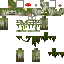
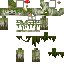
LOADS of model tweaks!! next up: sheep and cows, and then variants!!!

Changed region(s): [[0.375, 0.0, 0.5, 0.125], [0.875, 0.0, 0.9688, 0.125], [0.5312, 0.0625, 0.5938, 0.125]]

diff --git a/src/client/java/gay/beegirl/Mixin/EntityModelMixins.java b/src/client/java/gay/beegirl/Mixin/EntityModelMixins.java
@@ -1,0 +1,159 @@
+package gay.beegirl.Mixin;
+
+import net.minecraft.client.model.*;
+import net.minecraft.client.render.entity.model.*;
+import net.minecraft.entity.Entity;
+import org.spongepowered.asm.mixin.Final;
+import org.spongepowered.asm.mixin.Mixin;
+import org.spongepowered.asm.mixin.Shadow;
+import org.spongepowered.asm.mixin.Unique;
+import org.spongepowered.asm.mixin.injection.At;
+import org.spongepowered.asm.mixin.injection.Inject;
+import org.spongepowered.asm.mixin.injection.callback.CallbackInfo;
+import org.spongepowered.asm.mixin.injection.callback.CallbackInfoReturnable;
+import org.spongepowered.asm.mixin.injection.callback.LocalCapture;
+
+@Mixin(AbstractZombieModel.class)
+abstract class AbstractZombieModelMixin extends BipedEntityModelMixin {
+    @Inject(
+            method = "setAngles(Lnet/minecraft/entity/Entity;FFFFF)V",
+            at = @At("TAIL")
+    )
+    public void setAngles(Entity entity, float f, float g, float h, float i, float j, CallbackInfo ci){
+        this.jacket.copyTransform(this.body);
+        this.rightSleeve.copyTransform(this.rightArm);
+        this.leftSleeve.copyTransform(this.leftArm);
+        this.rightPants.copyTransform(this.rightLeg);
+        this.leftPants.copyTransform(this.leftLeg);
+    }
+}
+@Mixin(BoggedEntityModel.class)
+class BoggedEntityModelMixin {
+    @Inject(
+            method = "getTexturedModelData",
+            at = @At("RETURN"),
+            locals = LocalCapture.CAPTURE_FAILHARD,
+            cancellable = true
+    )
+    private static void getTexturedModelData(CallbackInfoReturnable<TexturedModelData> cir, ModelData modelData, ModelPartData modelPartData){
+        ModelPartData modelPartData2 = modelPartData.getChild("head").addChild("mushrooms", ModelPartBuilder.create(), ModelTransform.NONE);
+        modelPartData2.addChild("red_mushroom_1", ModelPartBuilder.create().uv(24, 0).cuboid(-3.0F, -3.0F, 0.0F, 6.0F, 4.0F, 0.0F), ModelTransform.of(3.0F, -8.0F, 3.0F, 0.0F, 0.7853982F, 0.0F));
+        modelPartData2.addChild("red_mushroom_2", ModelPartBuilder.create().uv(24, 0).cuboid(-3.0F, -3.0F, 0.0F, 6.0F, 4.0F, 0.0F), ModelTransform.of(3.0F, -8.0F, 3.0F, 0.0F, 2.3561945F, 0.0F));
+        modelPartData2.addChild("brown_mushroom_1", ModelPartBuilder.create().uv(24, 4).cuboid(-3.0F, -3.0F, 0.0F, 6.0F, 4.0F, 0.0F), ModelTransform.of(-3.0F, -8.0F, -3.0F, 0.0F, 0.7853982F, 0.0F));
+        modelPartData2.addChild("brown_mushroom_2", ModelPartBuilder.create().uv(24, 4).cuboid(-3.0F, -3.0F, 0.0F, 6.0F, 4.0F, 0.0F), ModelTransform.of(-3.0F, -8.0F, -3.0F, 0.0F, 2.3561945F, 0.0F));
+        modelPartData2.addChild("brown_mushroom_3", ModelPartBuilder.create().uv(56, 0).cuboid(-3.0F, -4.0F, 0.0F, 6.0F, 4.0F, 0.0F), ModelTransform.of(-2.0F, -1.0F, 4.0F, -1.5707964F, 0.0F, 0.7853982F));
+        modelPartData2.addChild("brown_mushroom_4", ModelPartBuilder.create().uv(56, 0).cuboid(-3.0F, -4.0F, 0.0F, 6.0F, 4.0F, 0.0F), ModelTransform.of(-2.0F, -1.0F, 4.0F, -1.5707964F, 0.0F, 2.3561945F));
+        cir.setReturnValue(
+                TexturedModelData.of(modelData, 64, 64)
+        );
+    }
+}
+@Mixin(ChickenEntityModel.class)
+abstract class ChickenEntityModelMixin extends AnimalModel {
+    @Final
+    @Shadow
+    private ModelPart head;
+    @Final
+    @Shadow
+    private ModelPart body;
+    @Unique
+    public ModelPart comb;
+    @Unique
+    public ModelPart tail;
+
+    @Inject(
+            method = "<init>",
+            at = @At("RETURN")
+    )
+    private void init(ModelPart root, CallbackInfo ci){
+        this.comb = this.head.getChild("comb");
+        this.tail = this.body.getChild("tail");
+    }
+
+    @Inject(
+            method = "getTexturedModelData",
+            at = @At("RETURN"),
+            locals = LocalCapture.CAPTURE_FAILHARD
+    )
+    private static void getTexturedModelData(CallbackInfoReturnable<TexturedModelData> cir, ModelData modelData, ModelPartData modelPartData, int i, ModelPartBuilder modelPartBuilder) {
+        modelPartData.getChild("head").addChild("comb", ModelPartBuilder.create().uv(40, 0).cuboid(-6.0F, -10.0F, 0.0F, 8.0F, 8.0F, 0.0F), ModelTransform.rotation(0.0F, -(float)Math.PI/2, 0.0F));
+        modelPartData.getChild("body").addChild("tail", ModelPartBuilder.create().uv(40, 8).cuboid(-12.0F, -13.0F, 0.0F, 8.0F, 16.0F, 0.0F), ModelTransform.rotation(-(float)Math.PI/2, 0, -(float)Math.PI/2));
+    }
+}
+@Mixin(DrownedEntityModel.class)
+abstract class DrownedEntityModelMixin extends BipedEntityModelMixin{
+    @Inject(
+            method = "setAngles(Lnet/minecraft/entity/Entity;FFFFF)V",
+            at = @At("TAIL")
+    )
+    public void setAngles(Entity entity, float f, float g, float h, float i, float j, CallbackInfo ci){
+        this.jacket.copyTransform(this.body);
+        this.rightSleeve.copyTransform(this.rightArm);
+        this.leftSleeve.copyTransform(this.leftArm);
+        this.rightPants.copyTransform(this.rightLeg);
+        this.leftPants.copyTransform(this.leftLeg);
+    }
+}
+@Mixin(PigEntityModel.class)
+abstract class PigEntityModelMixin extends QuadrupedEntityModel {
+    @Unique
+    public ModelPart dirt;
+    @Unique
+    public ModelPart tulip;
+
+    protected PigEntityModelMixin(ModelPart root, boolean headScaled, float childHeadYOffset, float childHeadZOffset, float invertedChildHeadScale, float invertedChildBodyScale, int childBodyYOffset) {
+        super(root, headScaled, childHeadYOffset, childHeadZOffset, invertedChildHeadScale, invertedChildBodyScale, childBodyYOffset);
+    }
+
+    @Inject(
+            method = "<init>",
+            at = @At("RETURN")
+    )
+    private void init(ModelPart root, CallbackInfo ci){
+        this.dirt = this.head.getChild("dirt");
+        this.tulip = this.head.getChild("tulip");
+    }
+
+    @Inject(
+            method = "getTexturedModelData",
+            at = @At("RETURN"),
+            locals = LocalCapture.CAPTURE_FAILHARD
+    )
+    private static void getTexturedModelData(Dilation dilation, CallbackInfoReturnable<TexturedModelData> cir, ModelData modelData, ModelPartData modelPartData) {
+        modelPartData.getChild("head").addChild("dirt", ModelPartBuilder.create().uv(28, 3).cuboid(-1.0F, -5.0F, -7.0F, 4.0F, 1.0F, 4.0F), ModelTransform.NONE);
+        modelPartData.getChild("head").addChild("tulip", ModelPartBuilder.create().uv(44, 0).cuboid(-1.0F, -13.0F, -5.0F, 6.0F, 8.0F, 0.0F), ModelTransform.NONE);
+    }
+}
+@Mixin(SkeletonEntityModel.class)
+abstract class SkeletonEntityModelMixin extends BipedEntityModelMixin{
+    @Inject(
+            method = "getTexturedModelData",
+            at = @At("RETURN"),
+            locals = LocalCapture.CAPTURE_FAILHARD,
+            cancellable = true
+    )
+    private static void getTexturedModelData(CallbackInfoReturnable<TexturedModelData> cir, ModelData modelData, ModelPartData modelPartData){
+        cir.setReturnValue(
+                TexturedModelData.of(modelData, 64, 64)
+        );
+    }
+    @Inject(
+            method = "addLimbs",
+            at = @At("TAIL")
+    )
+    private static void addLimbs(ModelPartData data, CallbackInfo ci) {
+        data.addChild("left_arm", ModelPartBuilder.create().uv(32, 48).mirrored().cuboid(-1.0F, -2.0F, -1.0F, 2.0F, 12.0F, 2.0F), ModelTransform.pivot(5.0F, 2.0F, 0.0F));
+        data.addChild("left_leg", ModelPartBuilder.create().uv(16, 48).mirrored().cuboid(-1.0F, 0.0F, -1.0F, 2.0F, 12.0F, 2.0F), ModelTransform.pivot(2.0F, 12.0F, 0.0F));
+    }
+    @Inject(
+            method = "setAngles(Lnet/minecraft/entity/Entity;FFFFF)V",
+            at = @At("TAIL")
+    )
+    public void setAngles(Entity entity, float f, float g, float h, float i, float j, CallbackInfo ci){
+        this.jacket.copyTransform(this.body);
+        this.rightSleeve.copyTransform(this.rightArm);
+        this.leftSleeve.copyTransform(this.leftArm);
+        this.rightPants.copyTransform(this.rightLeg);
+        this.leftPants.copyTransform(this.leftLeg);
+    }
+}

diff --git a/src/client/java/gay/beegirl/Mixin/BipedEntityModelMixin.java b/src/client/java/gay/beegirl/Mixin/BipedEntityModelMixin.java
@@ -1,47 +1,115 @@
 package gay.beegirl.Mixin;
 
+import com.google.common.collect.ImmutableList;
 import net.minecraft.client.model.*;
+import net.minecraft.client.render.RenderLayer;
+import net.minecraft.client.render.entity.model.AnimalModel;
 import net.minecraft.client.render.entity.model.BipedEntityModel;
-import net.minecraft.entity.LivingEntity;
+import net.minecraft.entity.Entity;
+import net.minecraft.util.Identifier;
+import org.spongepowered.asm.mixin.Final;
 import org.spongepowered.asm.mixin.Mixin;
+import org.spongepowered.asm.mixin.Shadow;
+import org.spongepowered.asm.mixin.Unique;
 import org.spongepowered.asm.mixin.injection.At;
 import org.spongepowered.asm.mixin.injection.Inject;
 import org.spongepowered.asm.mixin.injection.callback.CallbackInfo;
 import org.spongepowered.asm.mixin.injection.callback.CallbackInfoReturnable;
 import org.spongepowered.asm.mixin.injection.callback.LocalCapture;
 
+import java.util.function.Function;
+
 @Mixin(BipedEntityModel.class)
-public class BipedEntityModelMixin<T extends LivingEntity> {
+public abstract class BipedEntityModelMixin extends AnimalModel {
+    @Final
+    @Shadow
+    public ModelPart head;
+    @Final
+    @Shadow
+    public ModelPart hat;
+    @Final
+    @Shadow
+    public ModelPart body;
+    @Unique
+    public ModelPart jacket;
+    @Final
+    @Shadow
+    public ModelPart rightArm;
+    @Unique
+    public ModelPart rightSleeve;
+    @Final
+    @Shadow
+    public ModelPart leftArm;
+    @Unique
+    public ModelPart leftSleeve;
+    @Final
+    @Shadow
+    public ModelPart rightLeg;
+    @Unique
+    public ModelPart rightPants;
+    @Final
+    @Shadow
+    public ModelPart leftLeg;
+    @Unique
+    public ModelPart leftPants;
+
+    @Inject(
+            method = "<init>(Lnet/minecraft/client/model/ModelPart;Ljava/util/function/Function;)V",
+            at = @At("RETURN")
+    )
+    private void init(ModelPart root, Function<Identifier, RenderLayer> renderLayerFactory, CallbackInfo ci){
+        this.jacket = root.getChild("jacket");
+        this.rightSleeve = root.getChild("right_sleeve");
+        this.leftSleeve = root.getChild("left_sleeve");
+        this.rightPants = root.getChild("right_pants");
+        this.leftPants = root.getChild("left_pants");
+    }
+
     @Inject(
             method = "getModelData",
             at = @At("RETURN"),
             locals = LocalCapture.CAPTURE_FAILHARD
     )
-    private static void addClothes(Dilation dilation, float pivotOffsetY, CallbackInfoReturnable<ModelData> cir, ModelData modelData, ModelPartData modelPartData){
-        modelPartData.addChild("head", ModelPartBuilder.create().uv(0, 0).cuboid(-4.0F, -8.0F, -4.0F, 8.0F, 8.0F, 8.0F, dilation), ModelTransform.pivot(0.0F, 0.0F + pivotOffsetY, 0.0F));
-        modelPartData.addChild("hat", ModelPartBuilder.create().uv(32, 0).cuboid(-4.0F, -8.0F, -4.0F, 8.0F, 8.0F, 8.0F, dilation.add(0.5F)), ModelTransform.pivot(0.0F, 0.0F + pivotOffsetY, 0.0F));
-
-        modelPartData.addChild("body", ModelPartBuilder.create().uv(16, 16).cuboid(-4.0F, 0.0F, -2.0F, 8.0F, 12.0F, 4.0F, dilation), ModelTransform.pivot(0.0F, 0.0F + pivotOffsetY, 0.0F));
+    private static void getModelData(Dilation dilation, float pivotOffsetY, CallbackInfoReturnable<ModelData> cir, ModelData modelData, ModelPartData modelPartData) {
         modelPartData.addChild("jacket", ModelPartBuilder.create().uv(16, 32).cuboid(-4.0F, 0.0F, -2.0F, 8.0F, 12.0F, 4.0F, dilation.add(0.25F)), ModelTransform.NONE);
-
+        modelPartData.addChild("right_sleeve", ModelPartBuilder.create().uv(40, 32).cuboid(-3.0F, -2.0F, -2.0F, 4.0F, 12.0F, 4.0F, dilation.add(0.25F)), ModelTransform.pivot(-5.0F, 2.0F, 0.0F));
         modelPartData.addChild("left_arm", ModelPartBuilder.create().uv(32, 48).cuboid(-1.0F, -2.0F, -2.0F, 4.0F, 12.0F, 4.0F, dilation), ModelTransform.pivot(5.0F, 2.0F, 0.0F));
         modelPartData.addChild("left_sleeve", ModelPartBuilder.create().uv(48, 48).cuboid(-1.0F, -2.0F, -2.0F, 4.0F, 12.0F, 4.0F, dilation.add(0.25F)), ModelTransform.pivot(5.0F, 2.0F, 0.0F));
-
-        modelPartData.addChild("right_arm", ModelPartBuilder.create().uv(40, 16).cuboid(-3.0F, -2.0F, -2.0F, 4.0F, 12.0F, 4.0F, dilation), ModelTransform.pivot(-5.0F, 2.0F + pivotOffsetY, 0.0F));
-        modelPartData.addChild("right_sleeve", ModelPartBuilder.create().uv(40, 32).cuboid(-3.0F, -2.0F, -2.0F, 4.0F, 12.0F, 4.0F, dilation.add(0.25F)), ModelTransform.pivot(-5.0F, 2.0F, 0.0F));
-
+        modelPartData.addChild("right_pants", ModelPartBuilder.create().uv(0, 32).cuboid(-2.0F, 0.0F, -2.0F, 4.0F, 12.0F, 4.0F, dilation.add(0.25F)), ModelTransform.pivot(-1.9F, 12.0F, 0.0F));
         modelPartData.addChild("left_leg", ModelPartBuilder.create().uv(16, 48).cuboid(-2.0F, 0.0F, -2.0F, 4.0F, 12.0F, 4.0F, dilation), ModelTransform.pivot(1.9F, 12.0F, 0.0F));
         modelPartData.addChild("left_pants", ModelPartBuilder.create().uv(0, 48).cuboid(-2.0F, 0.0F, -2.0F, 4.0F, 12.0F, 4.0F, dilation.add(0.25F)), ModelTransform.pivot(1.9F, 12.0F, 0.0F));
-
-        modelPartData.addChild("right_leg", ModelPartBuilder.create().uv(0, 16).cuboid(-2.0F, 0.0F, -2.0F, 4.0F, 12.0F, 4.0F, dilation), ModelTransform.pivot(-1.9F, 12.0F + pivotOffsetY, 0.0F));
-        modelPartData.addChild("right_pants", ModelPartBuilder.create().uv(0, 32).cuboid(-2.0F, 0.0F, -2.0F, 4.0F, 12.0F, 4.0F, dilation.add(0.25F)), ModelTransform.pivot(-1.9F, 12.0F, 0.0F));
     }
+
+    @Override
+    public Iterable<ModelPart> getHeadParts() {
+        return ImmutableList.of(this.head, this.hat);
+    }
+    @Override
+    public Iterable<ModelPart> getBodyParts() {
+        return ImmutableList.of(this.body, this.rightArm, this.leftArm, this.rightLeg, this.leftLeg, this.jacket, this.rightSleeve, this.leftSleeve, this.rightPants, this.leftPants);
+    }
+
+    @Inject(
+            method = "setAngles(Lnet/minecraft/entity/Entity;FFFFF)V",
+            at = @At("TAIL")
+    )
+    public void setAngles(Entity entity, float f, float g, float h, float i, float j, CallbackInfo ci) {
+        this.jacket.copyTransform(this.body);
+        this.rightSleeve.copyTransform(this.rightArm);
+        this.leftSleeve.copyTransform(this.leftArm);
+        this.rightPants.copyTransform(this.rightLeg);
+        this.leftPants.copyTransform(this.leftLeg);
+    }
+
     @Inject(
             method = "setVisible",
-            at = @At("RETURN"),
-            locals = LocalCapture.CAPTURE_FAILHARD
+            at = @At("TAIL")
     )
-    private void asdas(boolean visible, CallbackInfo ci) {
-
+    private void setVisible(boolean visible, CallbackInfo ci) {
+        this.jacket.visible = visible;
+        this.rightSleeve.visible = visible;
+        this.leftSleeve.visible = visible;
+        this.rightPants.visible = visible;
+        this.leftPants.visible = visible;
     }
 }

diff --git a/src/client/java/gay/beegirl/Mixin/EntityRendererMixins.java b/src/client/java/gay/beegirl/Mixin/EntityRendererMixins.java
@@ -1,0 +1,57 @@
+package gay.beegirl.Mixin;
+
+import com.llamalad7.mixinextras.injector.v2.WrapWithCondition;
+import net.minecraft.client.render.entity.BoggedEntityRenderer;
+import net.minecraft.client.render.entity.ChickenEntityRenderer;
+import net.minecraft.client.render.entity.DrownedEntityRenderer;
+import net.minecraft.client.render.entity.StrayEntityRenderer;
+import net.minecraft.client.render.entity.feature.FeatureRenderer;
+import net.minecraft.util.Identifier;
+import org.spongepowered.asm.mixin.Mixin;
+import org.spongepowered.asm.mixin.Shadow;
+import org.spongepowered.asm.mixin.injection.At;
+
+@Mixin(BoggedEntityRenderer.class)
+class BoggedEntityRendererMixin {
+    @WrapWithCondition(
+            method = "<init>",
+            at = @At(
+                    value = "INVOKE",
+                    target = "Lnet/minecraft/client/render/entity/BoggedEntityRenderer;addFeature(Lnet/minecraft/client/render/entity/feature/FeatureRenderer;)Z"
+            )
+    )
+    private boolean cancelOverlayFeature(BoggedEntityRenderer instance, FeatureRenderer featureRenderer) {
+        return false;
+    }
+}
+@Mixin(ChickenEntityRenderer.class)
+class ChickenEntityRendererMixin {
+    @Shadow
+    private static final Identifier TEXTURE = Identifier.ofVanilla("textures/entity/chicken/chicken.png");
+}
+@Mixin(DrownedEntityRenderer.class)
+class DrownedEntityRendererMixin {
+    @WrapWithCondition(
+            method = "<init>",
+            at = @At(
+                    value = "INVOKE",
+                    target = "Lnet/minecraft/client/render/entity/DrownedEntityRenderer;addFeature(Lnet/minecraft/client/render/entity/feature/FeatureRenderer;)Z"
+            )
+    )
+    private boolean cancelOverlayFeature(DrownedEntityRenderer instance, FeatureRenderer featureRenderer) {
+        return false;
+    }
+}
+@Mixin(StrayEntityRenderer.class)
+class StrayEntityRendererMixin {
+    @WrapWithCondition(
+            method = "<init>",
+            at = @At(
+                    value = "INVOKE",
+                    target = "Lnet/minecraft/client/render/entity/StrayEntityRenderer;addFeature(Lnet/minecraft/client/render/entity/feature/FeatureRenderer;)Z"
+            )
+    )
+    private boolean cancelOverlayFeature(StrayEntityRenderer instance, FeatureRenderer featureRenderer) {
+        return false;
+    }
+}
